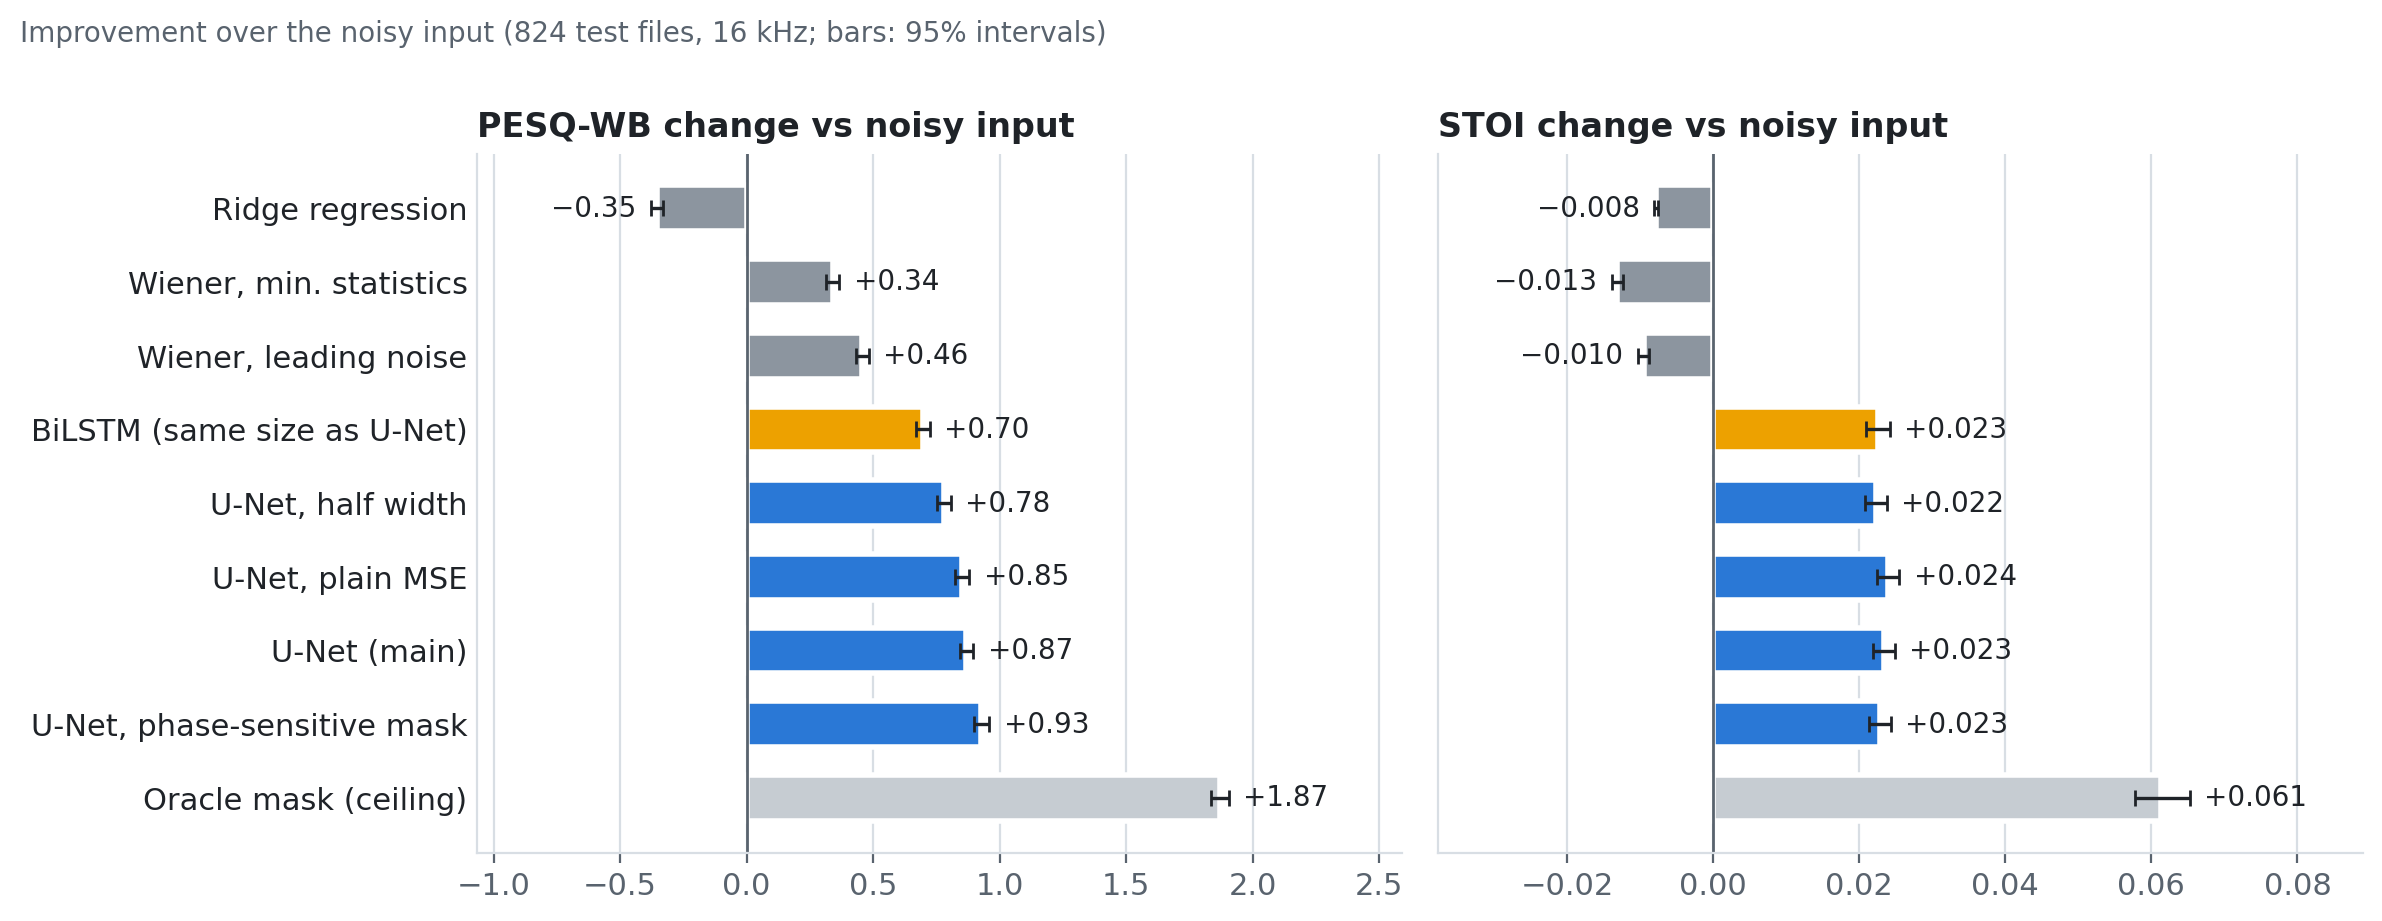
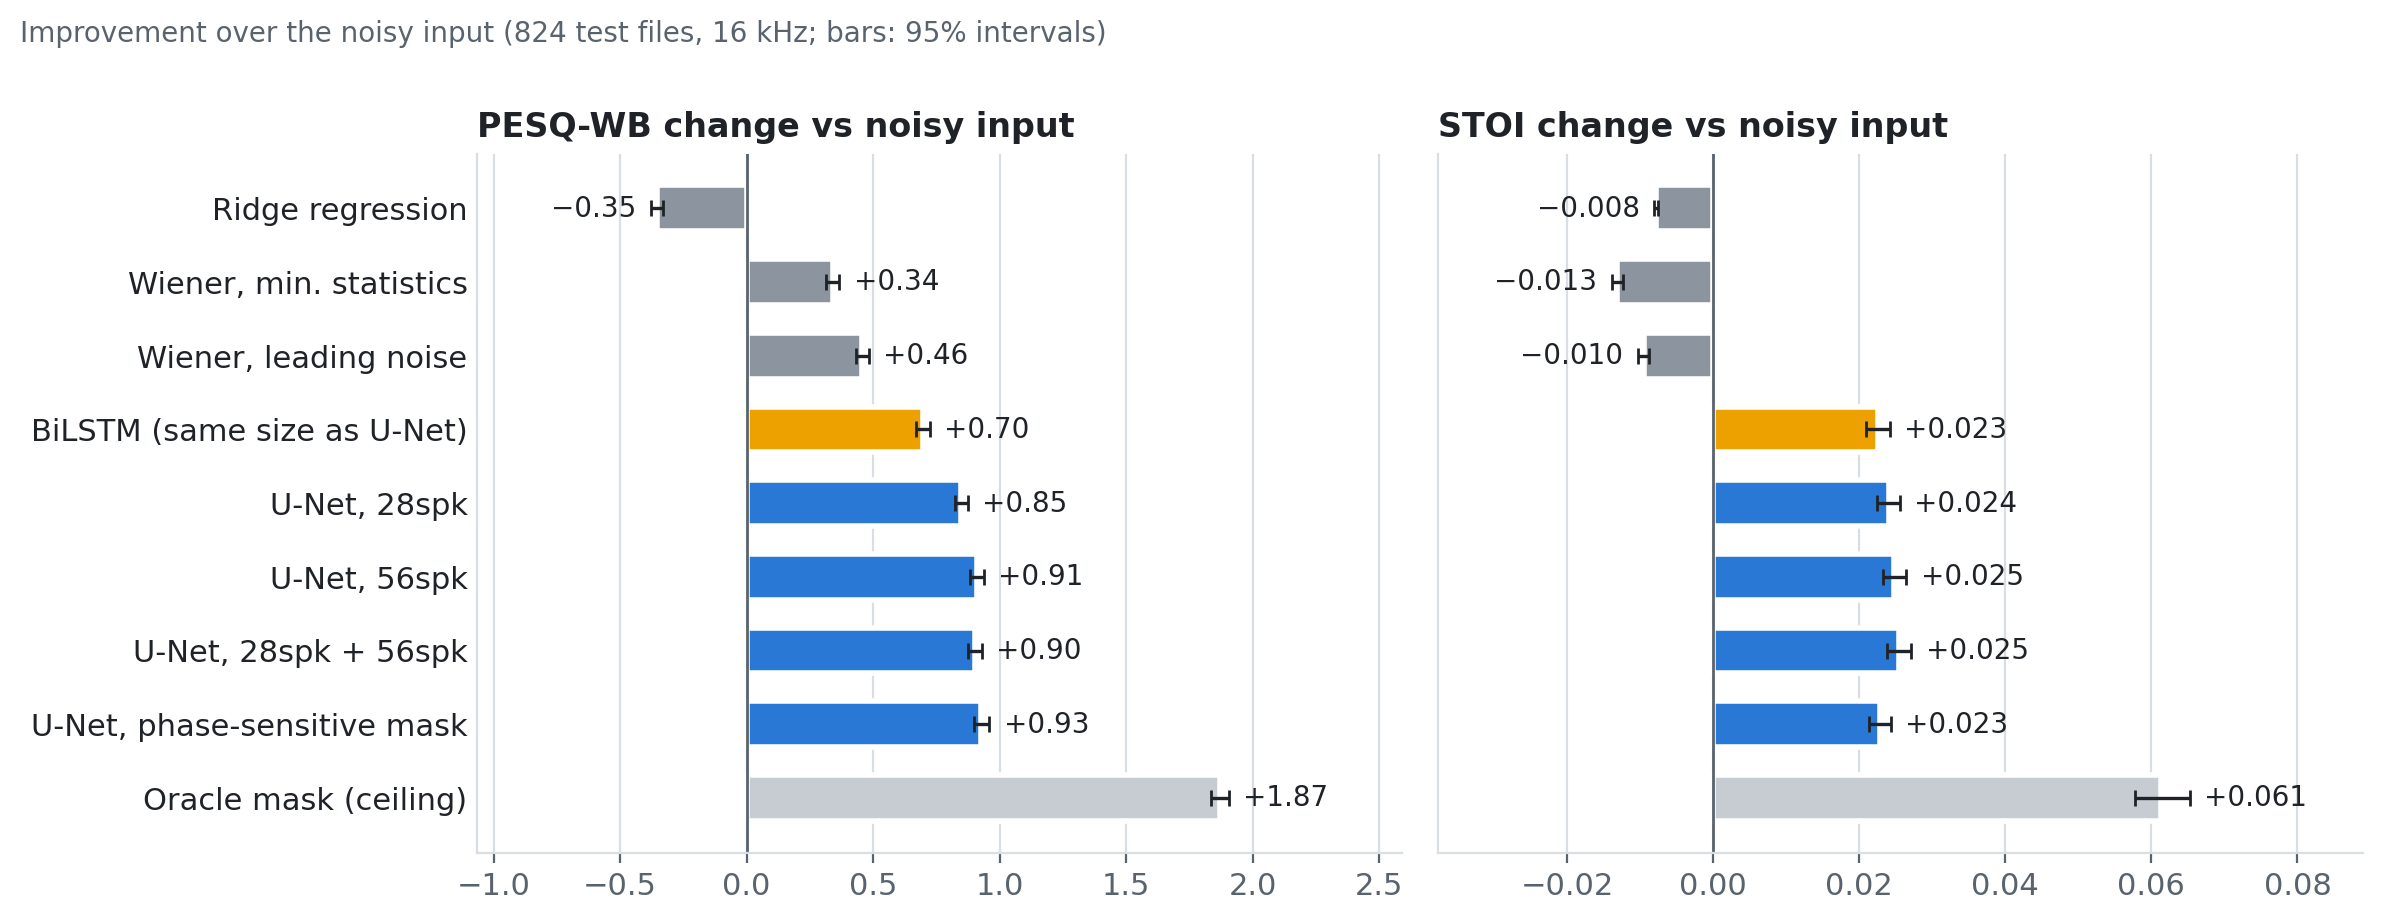
Figures: add the retrain as a noise reference and match the main table * experiments.png: gray "retrained, same settings" bar (Person A's rerun of the main U-Net, -0.020 PESQ) above the four experiments, so effects can be read against retraining noise * improvement.png: same systems as the main resu

diff --git a/figures/make_figures.py b/figures/make_figures.py
@@ -33,20 +33,23 @@ INK, MUTED, GRID = "#1f2328", "#59636e", "#d8dee4"
 BLUE, ORANGE, AQUA, YELLOW = "#2a78d6", "#eb6834", "#1baf7a", "#eda100"
 BASELINE, CEILING = "#8c959f", "#c6ccd2"
 
-# (label, metric CSV, family) in display order, top to bottom.
+# (label, metric CSV, family) in display order, top to bottom: the main results table. The U-Net
+# training-set runs are the rerun trio (one machine, one setup); the experiments are on their own figure.
 SYSTEMS = [
     ("Ridge regression", "linear_baseline__outputs__ridge_28spk", "baseline"),
     ("Wiener, min. statistics", "wiener_baseline__outputs__wiener_minstats_test", "baseline"),
     ("Wiener, leading noise", "wiener_baseline__outputs__wiener_leading_test", "baseline"),
     ("BiLSTM (same size as U-Net)", "unet_model__outputs__bilstm_28spk", "bilstm"),
-    ("U-Net, half width", "unet_model__outputs__unet_28spk_c8", "unet"),
-    ("U-Net, plain MSE", "unet_model__outputs__unet_28spk_sw1", "unet"),
-    ("U-Net (main)", "unet_model__outputs__unet_28spk", "unet"),
+    ("U-Net, 28spk", "unet_model__outputs__unet_28spk_rerun", "unet"),
+    ("U-Net, 56spk", "unet_model__outputs__unet_56spk", "unet"),
+    ("U-Net, 28spk + 56spk", "unet_model__outputs__unet_both", "unet"),
     ("U-Net, phase-sensitive mask", "unet_model__outputs__unet_28spk_psm", "unet"),
     ("Oracle mask (ceiling)", "wiener_baseline__outputs__oracle_test", "oracle"),
 ]
+# The experiments' baseline: the original main run, trained in the same setup as every experiment.
 MAIN = "unet_model__outputs__unet_28spk"
 EXPERIMENTS = [
+    ("Retrained, same settings", "unet_model__outputs__unet_28spk_rerun"),
     ("Phase-sensitive mask", "unet_model__outputs__unet_28spk_psm"),
     ("Plain MSE (silence weight 1.0)", "unet_model__outputs__unet_28spk_sw1"),
     ("Half width (¼ parameters)", "unet_model__outputs__unet_28spk_c8"),
@@ -131,8 +134,8 @@ def experiments_figure():
     runs = [(label, load(name)) for label, name in EXPERIMENTS]
     stems = sorted(set(main).intersection(*(set(r) for _, r in runs)))
     labels = [label for label, _ in runs]
-    colors = [BLUE, ORANGE, AQUA, YELLOW]
-    fig, axes = plt.subplots(1, 3, figsize=(13, 4.0), sharey=True)
+    colors = [BASELINE, BLUE, ORANGE, AQUA, YELLOW]   # gray: retraining noise, not an experiment
+    fig, axes = plt.subplots(1, 3, figsize=(13, 4.6), sharey=True)
     for ax, key, title, fmt in [
         (axes[0], "pesq_wb_processed", "PESQ-WB", "{:+.3f}"),
         (axes[1], "stoi_processed", "STOI", "{:+.4f}"),
@@ -142,7 +145,8 @@ def experiments_figure():
         diffs = [column(r, stems, key) - base for _, r in runs]
         bar_panel(ax, labels, [d.mean() for d in diffs], [bootstrap_ci(d) for d in diffs], colors,
                   title, fmt)
-    fig.suptitle("Each experiment minus the main U-Net, file by file (positive = better; bars: 95% intervals)",
+    fig.suptitle("Each run minus the original main U-Net, file by file (positive = better; bars: 95% intervals). "
+                 "Gray: the same model retrained, i.e. the noise level",
                  x=0.01, ha="left", color=MUTED, fontsize=10, y=1.0)
     fig.tight_layout()
     save(fig, "experiments.png")
